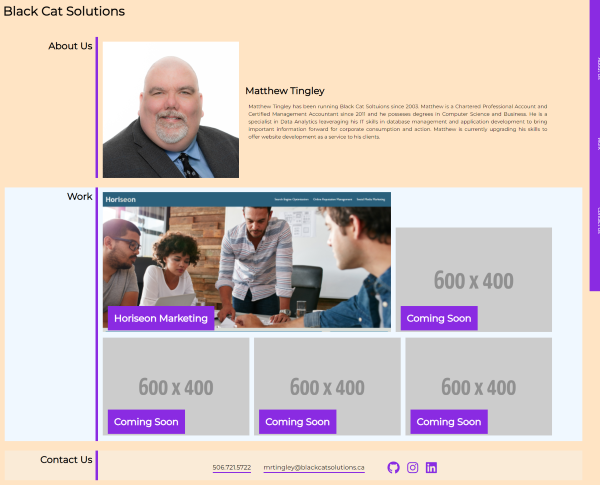
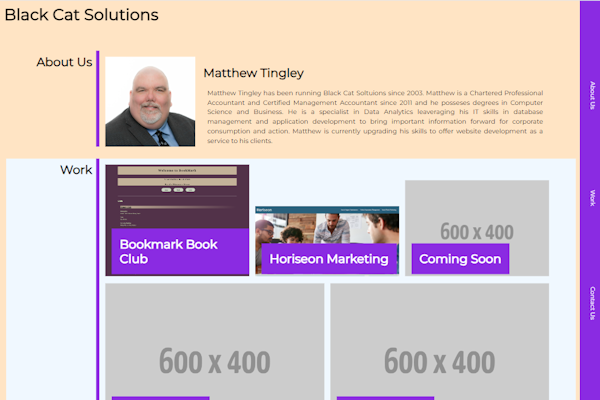
Fixed images to make them clearer, corrected bio and added some verbage on the Portfolio page.

diff --git a/src/pages/HomePage.jsx b/src/pages/HomePage.jsx
@@ -12,12 +12,10 @@ function HomePage() {
             />
             <p className="p-3">
                 Matthew Tingley has been running Black Cat Soltuions since 2003.
-                Matthew is a Chartered Professional Accountant and Certified
-                Management Accountant since 2011 and he posseses degrees in Computer
-                Science and Business. He is a specialist in Data Analytics
-                leaveraging his IT skills in database management and application
-                development to bring important information forward for corporate
-                consumption and action.
+                He posseses degrees in Computer Science and Business, and has been a 
+                Chartered Professional Accountant and Certified Management Accountant since 2011. 
+                He is a specialist in Data Analytics leaveraging his IT skills in database management and application
+                development to bring important information forward for corporate consumption and action.
             </p>
             </div>
         </section>

diff --git a/src/pages/Portfolio.jsx b/src/pages/Portfolio.jsx
@@ -10,7 +10,10 @@ import Project6 from "../Assets/images/ProjectImages/ScreenShot_WeatherForecast.
 function Portfolio() {
     return (
         <section class="bg-light">
+          
         <div class="container">
+          <h2>Portfolio</h2>
+          <p>Here are some samples of my past work.  Hover over the images for a link to the deployed site and to my Github repository.</p>
           <div class="row g-3 mt-1">
             <div class="col-12 col-md-6 d-flex justify-content-center">
                 <Project src={Project1} alt="Horiseon Marketing" projectLink="https://azukicoconut.github.io/HoriseonMarketing/" projectTitle="Horiseon Marketing" gitHubLink="https://github.com/AzukiCoconut/HoriseonMarketing"/>

diff --git a/index.html b/index.html
@@ -3,7 +3,7 @@
   <head>
     <meta charset="UTF-8" />
     <meta name="viewport" content="width=device-width, initial-scale=1.0" />
-    <title>React Portfolio | Matt Tingley</title>
+    <title>Matt Tingley | Application Development</title>
   </head>
   <body>
     <div id="root"></div>
